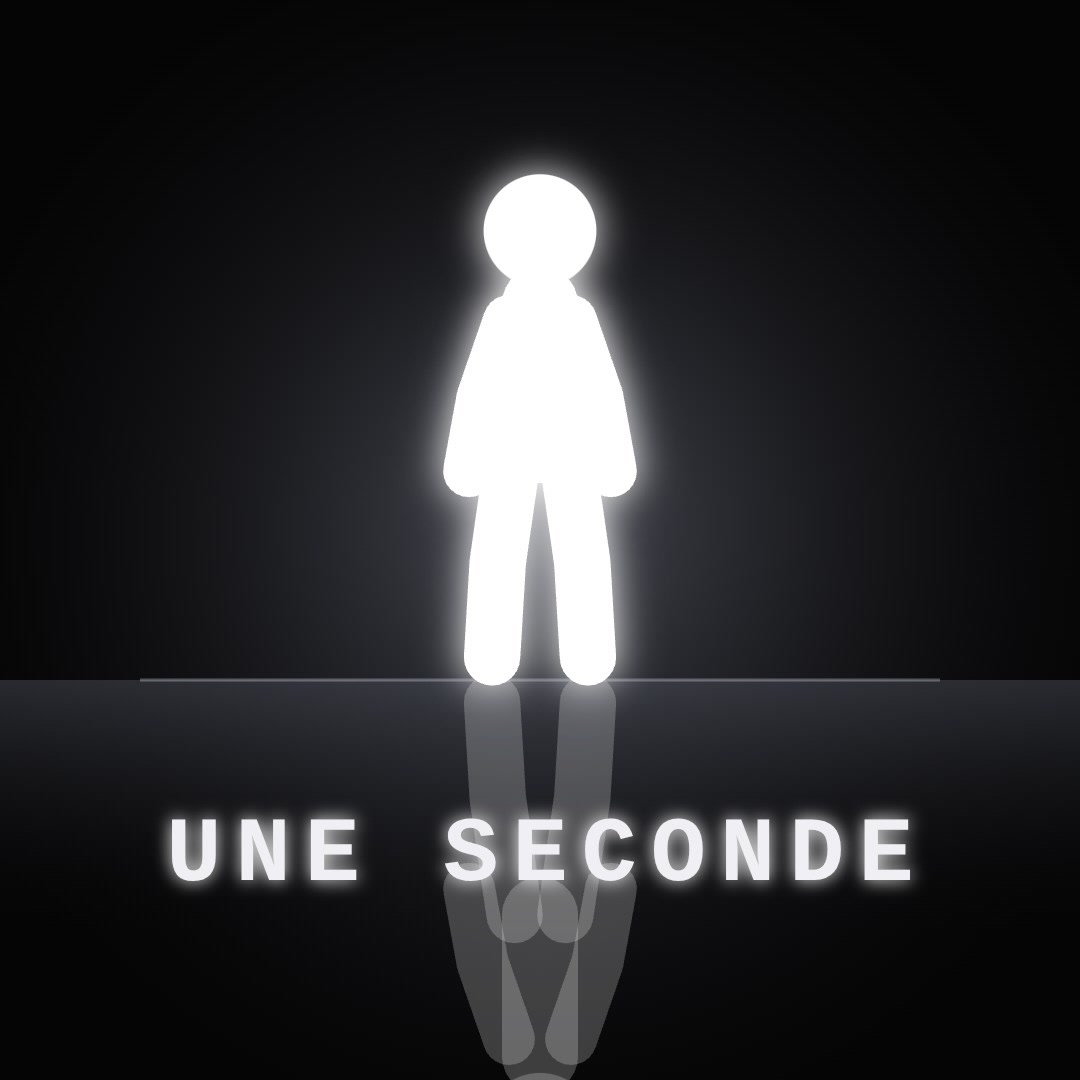
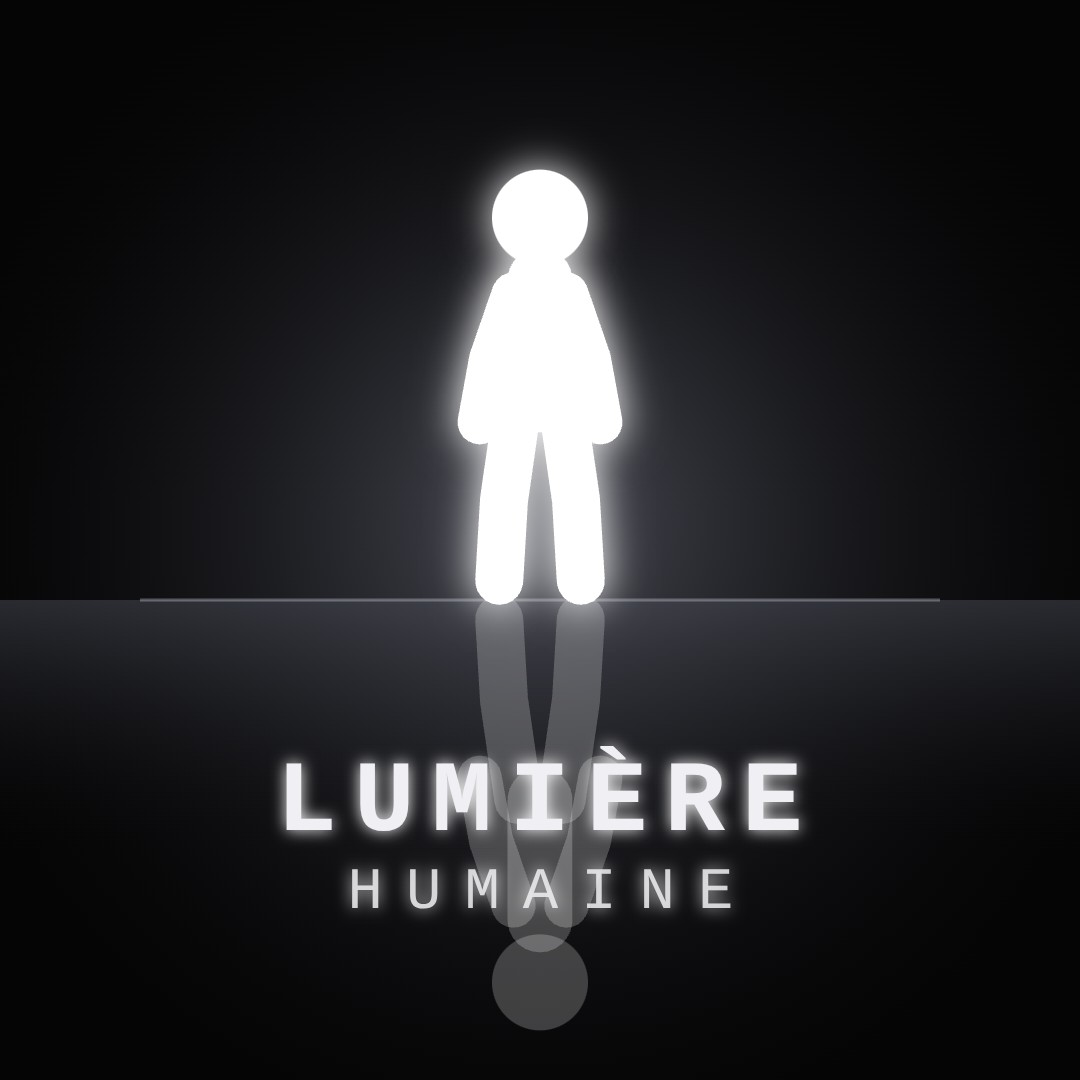
Page « Lumière Humaine » : photo de profil (main tendue) et visuels avec le nom
Claude-Session: https://claude.ai/code/session_01MdC9EJVeBCXnJVrJyLqk4y

diff --git a/src/episodes/logo.js b/src/episodes/logo.js
@@ -1,7 +1,7 @@
 // Photos de profil de la page (1080×1080, lisibles en petit dans un cercle).
-// t = 0 : le bonhomme seul ; t = 1 : la main tendue ; t = 2 : bonhomme + nom de la page.
+// t = 0 : le bonhomme seul ; t = 1 : la main tendue ; t = 2 : bonhomme + nom ; t = 3 / 4 : images 1 et 2 avec le nom.
 import { PI, figure, mixPose } from '../engine/bonhomme.js';
-export const world = 'flat', fps = 1, duration = 3, width = 1080, height = 1080;
+export const world = 'flat', fps = 1, duration = 6, width = 1080, height = 1080;
 
 function fond(ctx, W, H) {
   ctx.fillStyle = '#050506'; ctx.fillRect(0, 0, W, H);
@@ -23,6 +23,15 @@ export function build({ ctx, begin, W, H }) {
   return (t) => {
     begin(); fond(ctx, W, H);
     const v = Math.round(t);
+    const nom = (y, s = 1) => { ctx.save(); ctx.fillStyle = '#f0f0f4'; ctx.textAlign = 'center'; ctx.shadowColor = '#ffffff'; ctx.shadowBlur = 16;
+      ctx.font = `600 ${Math.round(96 * s)}px 'Courier New', monospace`; try { ctx.letterSpacing = `${Math.round(16 * s)}px`; } catch (e) {} ctx.fillText('LUMIÈRE', 548, y);
+      ctx.font = `500 ${Math.round(56 * s)}px 'Courier New', monospace`; try { ctx.letterSpacing = `${Math.round(22 * s)}px`; } catch (e) {} ctx.globalAlpha = 0.85; ctx.fillText('HUMAINE', 552, y + 74 * s); ctx.restore(); };
+    if (v === 3) { sol(ctx, W, 640); faceReflet(ctx, 540, 640, 440, { color: '#ffffff', glow: 44, arms: 0.3 }); nom(850); return; }
+    if (v === 4) { ctx.save(); ctx.translate(540, 300); ctx.scale(0.78, 0.78); ctx.translate(-540, -300);
+      sol(ctx, W, 800); avecReflet(ctx, 330, 800, 520, { kneel: 1, lean: 0.1, head: -0.25, armF: [2.2, -0.25], armB: [0.4, 0.5] }, { color: '#7a7c86', glow: 4 });
+      avecReflet(ctx, 770, 800, 560, { lean: 0.22, head: 0.3, armF: [1.25, 0.2], armB: [0.2, 0.3], legF: [0.18, 0.08], legB: [-0.12, 0.05] }, { color: '#ffffff', glow: 42, flip: -1 });
+      ctx.globalCompositeOperation = 'lighter'; const g = ctx.createRadialGradient(545, 520, 5, 545, 520, 130); g.addColorStop(0, 'rgba(255,250,235,0.55)'); g.addColorStop(1, 'rgba(255,250,235,0)'); ctx.fillStyle = g; ctx.fillRect(400, 400, 300, 300); ctx.restore();
+      ctx.fillStyle = '#050506'; ctx.fillRect(0, 760, W, 320); nom(860); return; }
     if (v === 0) { // le bonhomme lumineux, droit, le regard levé
       sol(ctx, W, 830); faceReflet(ctx, 540, 830, 620, { color: '#ffffff', glow: 50, arms: 0.3 });
     } else if (v === 1) { // la main tendue : un bonhomme lumineux relève un bonhomme gris
@@ -31,9 +40,7 @@ export function build({ ctx, begin, W, H }) {
       avecReflet(ctx, 770, 800, 560, { lean: 0.22, head: 0.3, armF: [1.25, 0.2], armB: [0.2, 0.3], legF: [0.18, 0.08], legB: [-0.12, 0.05] }, { color: '#ffffff', glow: 42, flip: -1 });
       ctx.save(); ctx.globalCompositeOperation = 'lighter'; const g = ctx.createRadialGradient(545, 520, 5, 545, 520, 130); g.addColorStop(0, 'rgba(255,250,235,0.55)'); g.addColorStop(1, 'rgba(255,250,235,0)'); ctx.fillStyle = g; ctx.fillRect(400, 400, 300, 300); ctx.restore();
     } else { // bonhomme + nom
-      sol(ctx, W, 680); faceReflet(ctx, 540, 680, 470, { color: '#ffffff', glow: 40, arms: 0.3 });
-      ctx.fillStyle = '#f0f0f4'; ctx.textAlign = 'center'; ctx.font = "600 92px 'Courier New', monospace"; try { ctx.letterSpacing = '14px'; } catch (e) {}
-      ctx.shadowColor = '#ffffff'; ctx.shadowBlur = 18; ctx.fillText('UNE SECONDE', 547, 880);
+      sol(ctx, W, 600); faceReflet(ctx, 540, 600, 400, { color: '#ffffff', glow: 40, arms: 0.3 }); nom(830, 1.05);
     }
   };
 }
